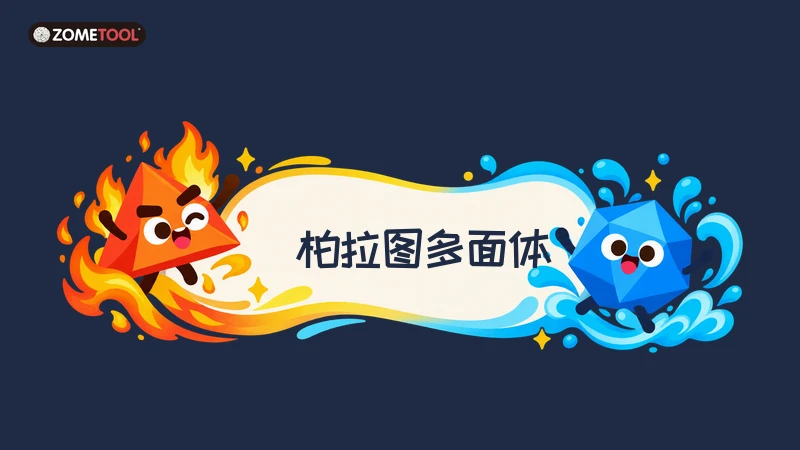
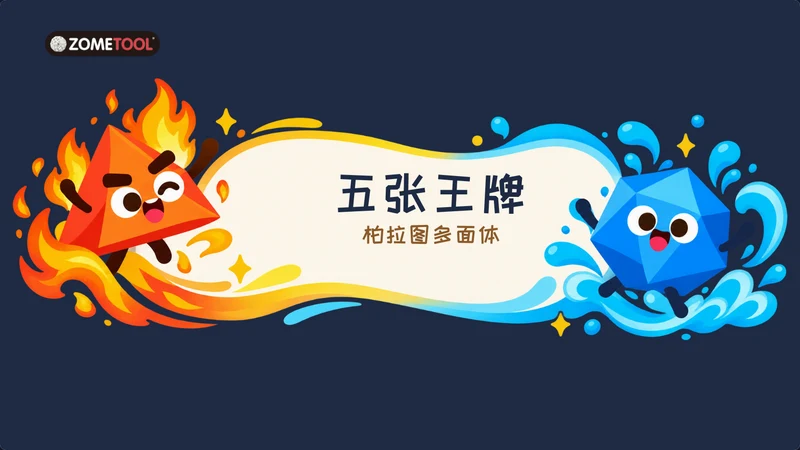
第10节改名「五张王牌：柏拉图多面体」；第3、5节小模型页加回正面按钮，第5节输电铁塔改为可旋转缩放的3D模型
Claude-Session: https://claude.ai/code/session_01PcKrhbRj6tJdbuHuUHg6jy

diff --git a/steamkit-course/lesson10-bolatu-duomianti/index.html b/steamkit-course/lesson10-bolatu-duomianti/index.html
@@ -1,7 +1,7 @@
-<!doctype html><html lang="zh-CN"><head><meta charset="utf-8"><meta name="viewport" content="width=device-width,initial-scale=1,viewport-fit=cover"><title>柏拉图多面体 · Zometool 拼搭课</title><link rel="icon" href="data:,"><link rel="stylesheet" href="lesson.css?v=20"></head><body><div id="app"><div id="viewport"><main id="stage" aria-label="课件">
-<section class="slide dark cover" data-id="cover" data-title="柏拉图多面体" data-sec="认识伙伴" data-minutes="0.5"  hidden><h2>柏拉图多面体</h2><img class="art" src="a/zometool.webp" alt="" style="left:90px;top:55px;width:230px;height:65px" draggable="false"><img class="art" src="a/cover_banner.png" alt="" style="left:10px;top:104px;width:1580px;height:632px" draggable="false"><div class="banner-text" style="left:520px;top:395px;width:690px"><h1>柏拉图多面体</h1></div><aside class="notes">【节奏】0.5 分钟，开播前可先展示。
+<!doctype html><html lang="zh-CN"><head><meta charset="utf-8"><meta name="viewport" content="width=device-width,initial-scale=1,viewport-fit=cover"><title>五张王牌：柏拉图多面体 · Zometool 拼搭课</title><link rel="icon" href="data:,"><link rel="stylesheet" href="lesson.css?v=20"></head><body><div id="app"><div id="viewport"><main id="stage" aria-label="课件">
+<section class="slide dark cover" data-id="cover" data-title="五张王牌：柏拉图多面体" data-sec="认识伙伴" data-minutes="0.5"  hidden><h2>五张王牌：柏拉图多面体</h2><img class="art" src="a/zometool.webp" alt="" style="left:90px;top:55px;width:230px;height:65px" draggable="false"><img class="art" src="a/cover_banner.png" alt="" style="left:10px;top:104px;width:1580px;height:632px" draggable="false"><div class="banner-text two" style="left:520px;top:330px;width:690px"><h1>五张王牌</h1><p class="sub2">柏拉图多面体</p></div><aside class="notes">【节奏】0.5 分钟，开播前可先展示。
 【互动】问孩子：画面里的两位是谁？（火=四面体、水=二十面体——上一讲的老朋友）
-【讲解】今天这几位伙伴要带我们去认识一位历史人物，还要亲手搭出其中三位，最后弄明白：为什么这样的伙伴只有 5 种。
+【讲解】今天这一节叫「五张王牌」：世界上只有 5 种这样完美的形状，就像 5 张王牌。这几位伙伴要带我们去认识一位历史人物，还要亲手搭出其中三位，最后弄明白：为什么这样的伙伴只有 5 种。
 【预期回答·不要提前说】认出四面体和二十面体的卡通形象。
 【易错与准备】横幅为课件主视觉；两位角色为艺术化形象，几何判断以课堂模型为准。</aside></section>
 <section class="slide " data-id="plato" data-title="为什么叫「柏拉图」多面体？" data-sec="认识伙伴" data-minutes="1.5"  hidden><h2>为什么叫<em class="hl">柏拉图多面体</em>？</h2><div class="hist-track"><i class="hist-fill"></i></div><button class="hist-fig" data-hist="0" style="left:103px;width:214px" aria-label="毕达哥拉斯学派"><img src="a/hist_pythagoras.webp" alt="毕达哥拉斯学派" draggable="false"><span class="hist-q">?</span></button><div class="hist-say" data-hist-say="0" style="left:50px"><b>毕达哥拉斯学派</b><span>我们认识了其中几种！</span></div><span class="hist-node" data-hist-node="0" style="left:193px"></span><span class="hist-date" style="left:80px">公元前 6 世纪</span><button class="hist-fig" data-hist="1" style="left:479px;width:162px" aria-label="泰阿泰德"><img src="a/hist_theaetetus.webp" alt="泰阿泰德" draggable="false"><span class="hist-q">?</span></button><div class="hist-say" data-hist-say="1" style="left:400px"><b>泰阿泰德</b><span>我证明：只有 5 种！</span></div><span class="hist-node" data-hist-node="1" style="left:543px"></span><span class="hist-date" style="left:430px">公元前 4 世纪</span><button class="hist-fig" data-hist="2" style="left:802px;width:216px" aria-label="柏拉图"><img src="a/hist_plato.webp" alt="柏拉图" draggable="false"><span class="hist-q">?</span></button><div class="hist-say" data-hist-say="2" style="left:750px"><b>柏拉图</b><span>把它们写进《蒂迈欧篇》</span></div><span class="hist-node" data-hist-node="2" style="left:893px"></span><span class="hist-date" style="left:780px">约公元前 360 年</span><button class="hist-fig" data-hist="3" style="left:1157px;width:206px" aria-label="欧几里得"><img src="a/hist_euclid.webp" alt="欧几里得" draggable="false"><span class="hist-q">?</span></button><div class="hist-say" data-hist-say="3" style="left:1100px"><b>欧几里得</b><span>写进《几何原本》再证明</span></div><span class="hist-node" data-hist-node="3" style="left:1243px"></span><span class="hist-date" style="left:1130px">约公元前 300 年</span><div class="hist-burst" aria-hidden="true"><div class="solid-host hist-solid" data-solid="tet" data-zoom="1.25" data-spin="0.8" style="--i:0"></div><div class="solid-host hist-solid" data-solid="cube" data-zoom="1.25" data-spin="0.8" style="--i:1"></div><div class="solid-host hist-solid" data-solid="oct" data-zoom="1.25" data-spin="0.8" style="--i:2"></div><div class="solid-host hist-solid" data-solid="ico" data-zoom="1.25" data-spin="0.8" style="--i:3"></div><div class="solid-host hist-solid" data-solid="dod" data-zoom="1.25" data-spin="0.8" style="--i:4"></div></div><div class="controls" style=""><button class="action " data-hist-next>下一位</button><button class="action quiet" data-hist-reset>重来</button></div><aside class="notes">【节奏】1.5 分钟，从左往右讲故事，不用记年代。

diff --git a/steamkit-course/lesson05-kongjian-dalishi/index.html b/steamkit-course/lesson05-kongjian-dalishi/index.html
@@ -392,12 +392,13 @@ button:focus-visible,input:focus-visible{outline:4px solid var(--orange);outline
 </section>
 <section class="slide" data-n="35" style="background:#1E2A44"  hidden>
 <div class="el sp " data-k="0"  style="left:106.7px;top:106.7px;width:1802.7px;height:61.3px;"><div class="tx" style="justify-content:flex-start;padding:0.0px 0.0px 0.0px 0.0px;white-space:nowrap;"><p style="text-align:left;line-height:61.3px;"><span style="font-size:53.3px;color:#FBF6EC;font-family:var(--display);font-weight:400;">更多三角形</span></p></div></div>
-<div class="el pic in-up zoomable" data-k="1" style="left:40px;top:190px;width:480px;height:540px;border-radius:18px;overflow:hidden;background:#152033;"><img class="im" src="a/pylon.webp?v=2" alt="输电铁塔" draggable="false" style="width:480px;height:540px;left:0;top:0;object-fit:cover;object-position:center top;"></div>
+<div class="el z3dmini" data-kind="hwPylon" data-idle data-fitw="400" data-fith="500" style="left:40px;top:190px;width:480px;height:540px"></div>
 <div class="el sp" style="left:40px;top:740px;width:480px;height:44px;"><div class="tx" style="justify-content:flex-start;padding:0;white-space:nowrap;"><p style="text-align:center;line-height:44px;"><span style="font-size:28px;color:#FFFFFF;font-family:var(--body);font-weight:900;">输电铁塔</span></p></div></div>
 <div class="el pic in-up d1 zoomable" data-k="3" style="left:560px;top:190px;width:480px;height:540px;border-radius:18px;overflow:hidden;background:#152033;"><img class="im" src="a/image55.webp" alt="埃菲尔铁塔" draggable="false" style="width:480px;height:540px;left:0;top:0;object-fit:cover;object-position:center;"></div>
 <div class="el sp" style="left:560px;top:740px;width:480px;height:44px;"><div class="tx" style="justify-content:flex-start;padding:0;white-space:nowrap;"><p style="text-align:center;line-height:44px;"><span style="font-size:28px;color:#FFFFFF;font-family:var(--body);font-weight:900;">埃菲尔铁塔</span></p></div></div>
 <div class="el pic in-up d2 zoomable" data-k="5" style="left:1080px;top:190px;width:480px;height:540px;border-radius:18px;overflow:hidden;background:#152033;"><img class="im" src="a/image58.webp" alt="老房子屋顶" draggable="false" style="width:480px;height:540px;left:0;top:0;object-fit:cover;object-position:center;"></div>
 <div class="el sp" style="left:1080px;top:740px;width:480px;height:44px;"><div class="tx" style="justify-content:flex-start;padding:0;white-space:nowrap;"><p style="text-align:center;line-height:44px;"><span style="font-size:28px;color:#FFFFFF;font-family:var(--body);font-weight:900;">老房子屋顶</span></p></div></div>
+<div class="ctl"><button class="again z3home" aria-label="回正面" title="回正面">回正面</button></div>
 </section>
 <section class="slide" data-n="38" style="background:#1E2A44"  data-sfx="fanfare-soft" hidden>
 <div class="el sp" data-k="0" style="left:106.7px;top:106.7px;width:1802.7px;height:61.3px;"><div class="tx" style="justify-content:flex-start;padding:0;white-space:nowrap;"><p style="text-align:left;line-height:61.3px;"><span style="font-size:53.3px;color:#FBF6EC;font-family:var(--display);font-weight:400;">课后挑战1：搭建不同的桥，测试稳定性并逐步改造</span></p></div></div>
@@ -410,6 +411,7 @@ button:focus-visible,input:focus-visible{outline:4px solid var(--orange);outline
 <div class="el z3dmini" data-kind="hwTower" data-idle data-fitw="520" data-fith="560" style="left:90px;top:185px;width:700px;height:620px"></div>
 <div class="el z3dmini" data-kind="hwPylon" data-idle data-fitw="520" data-fith="560" style="left:810px;top:185px;width:700px;height:620px"></div>
 <div class="el sp" style="left:106.7px;top:833.3px;width:1386.7px;height:33.3px;"><div class="tx" style="justify-content:flex-start;padding:6.0px 12.0px 6.0px 12.0px;"><p style="text-align:left;line-height:1.20;"><span style="font-size:18.3px;color:#B8C2D6;font-family:var(--body);font-weight:400;">感谢 Zometool 发烧友宁宁酱为造型提供创意</span></p></div></div>
+<div class="ctl"><button class="again z3home" aria-label="回正面" title="回正面">回正面</button></div>
 </section>
     <canvas id="burst" width="1600" height="900" aria-hidden="true"></canvas>
     <div id="flash" aria-hidden="true"></div>
@@ -1117,7 +1119,7 @@ stage.addEventListener("touchend",e=>{if(sx===null)return;const dx=e.changedTouc
 const vp=document.getElementById("viewport");function fit(){const r=vp.getBoundingClientRect(),k=Math.min(r.width/1600,r.height/900);stage.style.transform=`translate(-50%,-50%) scale(${k})`}
 addEventListener("resize",fit);fit();
 let last=performance.now();function frame(now){const dt=Math.min(.033,(now-last)/1000);last=now;const L=live.get(cur);if(L){L.step(dt);L.draw()}drawConfetti();requestAnimationFrame(frame)}
-slides.forEach(s=>{const hs=[...s.querySelectorAll(".z3dmini")];if(!hs.length)return;let views=[],live=0;
+slides.forEach(s=>{const hs=[...s.querySelectorAll(".z3dmini")];if(!hs.length)return;let views=[],live=0; s.querySelector(".z3home")?.addEventListener("click",()=>{A();play("tick");views.forEach(v=>v.home())});
   s._z3dEnter=()=>{const my=++live;z3dLoad().then(()=>{if(my!==live)return;views=hs.map((h,k)=>{const v=Zome3D.mount(h,h.dataset.kind,{fitW:+h.dataset.fitw,fitH:+h.dataset.fith,idle:h.hasAttribute("data-idle"),idlePhase:k*2.1});setTimeout(()=>{h.classList.add("on");v.intro(null,900,"quick")},k*200);return v});play("whoosh")})};
   s._z3dOff=()=>{live++;views.forEach(v=>v.dispose());views=[];hs.forEach(h=>h.classList.remove("on"))}});
 if(stage.querySelector(".z3dhost,.z3dmini"))setTimeout(function z3dPre(){z3dLoad().catch(()=>{})},1200);

diff --git a/steamkit-course/lesson03-liuban-qiji/index.html b/steamkit-course/lesson03-liuban-qiji/index.html
@@ -260,6 +260,7 @@ button:focus-visible,input:focus-visible{outline:4px solid var(--orange);outline
 <div class="el z3dmini" data-kind="s3_tree" data-fitw="398" data-fith="482" style="left:1031.3px;top:180px;width:462.7px;height:560px"></div>
 <div class="el sp in-up d4" style="left:1031.3px;top:746px;width:462.7px;height:44px;"><div class="tx" style="justify-content:flex-start;padding:0;white-space:nowrap;"><p style="text-align:center;line-height:44px;"><span style="font-size:30px;color:#FBF6EC;font-family:var(--display);font-weight:400;">大树枝雪花</span></p></div></div>
 <div class="el sp in-up d4" style="left:1031.3px;top:792px;width:462.7px;height:30px;"><div class="tx" style="justify-content:flex-start;padding:0;white-space:nowrap;"><p style="text-align:center;line-height:30px;"><span style="font-size:20px;color:#B8C2D6;font-family:var(--body);font-weight:400;">主枝再长一节，侧枝再分小枝</span></p></div></div>
+<div class="ctl"><button class="again z3home" aria-label="回正面" title="回正面">回正面</button></div>
 </section>
 <section class="slide" data-n="24" style="background:#F2A65A"  data-sfx="fanfare-soft" hidden>
 <div class="el sp in-up" data-k="0"  style="left:106.7px;top:292.7px;width:1469.9px;height:230.0px;"><div class="tx" style="justify-content:flex-start;padding:0.0px 0.0px 0.0px 0.0px;"><p style="text-align:left;line-height:115.0px;"><span style="font-size:100.0px;color:#1E2A44;font-family:var(--display);font-weight:400;">里面是六边形，</span></p><p style="text-align:left;line-height:115.0px;"><span style="font-size:100.0px;color:#1E2A44;font-family:var(--display);font-weight:400;">外面就是六个瓣</span></p></div></div>
@@ -366,6 +367,7 @@ button:focus-visible,input:focus-visible{outline:4px solid var(--orange);outline
 <div class="el z3dmini" data-kind="s3_ning" data-idle data-fitw="360" data-fith="400" style="left:560px;top:185px;width:480px;height:580px"></div>
 <div class="el z3dmini" data-kind="s3_rui" data-idle data-fitw="360" data-fith="400" style="left:1050px;top:185px;width:480px;height:580px"></div>
 <div class="el sp" style="left:106.7px;top:833.3px;width:1386.7px;height:33.3px;"><div class="tx" style="justify-content:flex-start;padding:6.0px 12.0px 6.0px 12.0px;"><p style="text-align:left;line-height:1.20;"><span style="font-size:18.3px;color:#B8C2D6;font-family:var(--body);font-weight:400;">以上造型感谢 Zometool 发烧友宁宁酱、睿 等提供创意</span></p></div></div>
+<div class="ctl"><button class="again z3home" aria-label="回正面" title="回正面">回正面</button></div>
 </section>
 <section class="slide" data-n="30" style="background:#1E2A44" hidden>
 <div class="el sp " data-k="0"  style="left:106.7px;top:106.7px;width:1802.7px;height:61.3px;"><div class="tx" style="justify-content:flex-start;padding:0.0px 0.0px 0.0px 0.0px;white-space:nowrap;"><p style="text-align:left;line-height:61.3px;"><span style="font-size:53.3px;color:#FBF6EC;font-family:var(--display);font-weight:400;">课后挑战2：拼一块三层的水分子冰，并找到六边形角度</span></p></div></div>
@@ -967,7 +969,7 @@ stage.addEventListener("touchend",e=>{if(sx===null)return;const dx=e.changedTouc
 const vp=document.getElementById("viewport");function fit(){const r=vp.getBoundingClientRect(),k=Math.min(r.width/1600,r.height/900);stage.style.transform=`translate(-50%,-50%) scale(${k})`}
 addEventListener("resize",fit);fit();
 let last=performance.now();function frame(now){const dt=Math.min(.033,(now-last)/1000);last=now;const L=live.get(cur);if(L){L.step(dt);L.draw()}drawConfetti();requestAnimationFrame(frame)}
-slides.forEach(s=>{const hs=[...s.querySelectorAll(".z3dmini")];if(!hs.length)return;let views=[],live=0;
+slides.forEach(s=>{const hs=[...s.querySelectorAll(".z3dmini")];if(!hs.length)return;let views=[],live=0; s.querySelector(".z3home")?.addEventListener("click",()=>{A();play("tick");views.forEach(v=>v.home())});
   s._z3dEnter=()=>{const my=++live;z3dLoad().then(()=>{if(my!==live)return;views=hs.map((h,k)=>{const v=Zome3D.mount(h,h.dataset.kind,{fitW:+h.dataset.fitw,fitH:+h.dataset.fith,idle:h.hasAttribute("data-idle"),idlePhase:k*2.1});setTimeout(()=>{h.classList.add("on");v.intro(null,1500,"soft")},k*200);return v});play("whoosh")})};
   s._z3dOff=()=>{live++;views.forEach(v=>v.dispose());views=[];hs.forEach(h=>h.classList.remove("on"))}});
 if(stage.querySelector(".z3dhost,.z3dmini"))setTimeout(function z3dPre(){z3dLoad().catch(()=>{})},1200);

diff --git a/steamkit-course/courseware/index.html b/steamkit-course/courseware/index.html
@@ -64,7 +64,7 @@
 const LESSONS = [
   { no: 3, title: "六瓣的奇迹", q: "为什么雪花都是六个瓣？", href: "../lesson03-liuban-qiji/", img: "img/l03.webp?v=2", pages: 28 },
   { no: 5, title: "空间大力士", q: "谁是稳定性之王？三角形！", href: "../lesson05-kongjian-dalishi/", img: "img/l05.webp", pages: 28 },
-  { no: 10, title: "柏拉图多面体", q: "为什么正多面体只有五种？", href: "../lesson10-bolatu-duomianti/", img: "img/l10.webp?v=3", pages: 22 },
+  { no: 10, title: "五张王牌：柏拉图多面体", q: "为什么正多面体只有五种？", href: "../lesson10-bolatu-duomianti/", img: "img/l10.webp?v=4", pages: 22 },
   { no: 11, title: "开普勒的宇宙世界", q: "5 种形状，套出一个宇宙", href: "../lesson11-kaipule-yuzhou/", img: "img/l11.webp?v=2", pages: 20 },
 ];
 const grid = document.getElementById("grid");

diff --git a/steamkit-course/lesson10-bolatu-duomianti/lesson.css b/steamkit-course/lesson10-bolatu-duomianti/lesson.css
@@ -296,3 +296,6 @@ h2 em.hl{font-style:normal;color:var(--orange);font-size:1.18em;padding:0 6px}
 .awall:not(.has){align-content:center;justify-content:center}
 .awall .aempty{text-align:center;margin:0}
 .euler-ask .calc{font-size:22px;white-space:nowrap}
+
+.banner-text.two h1{font-size:96px;letter-spacing:10px}
+.banner-text.two .sub2{margin:6px 0 0;font:44px var(--display);color:#8a5a2a;letter-spacing:6px}
